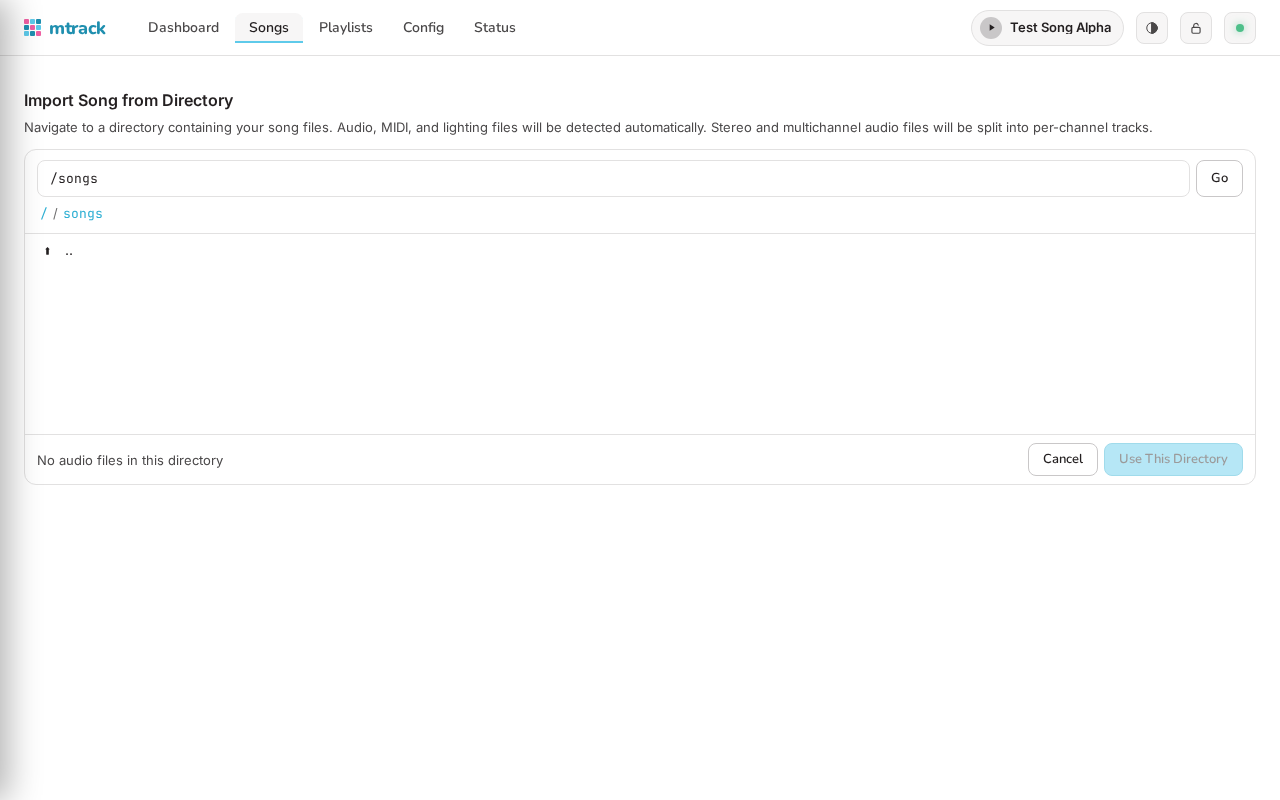
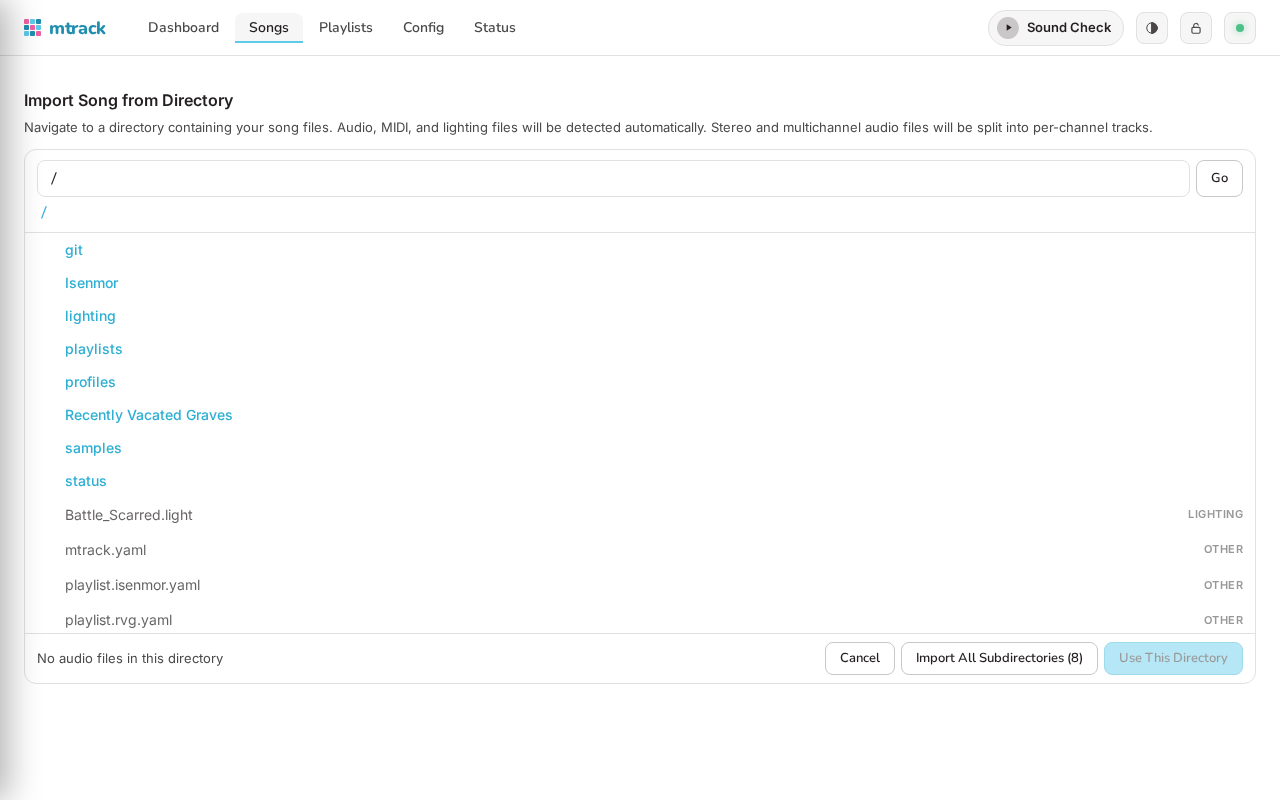
Docs: split screenshots into mock + live capture configs
The mock-server fixtures only carry one hardware profile, no real songs,
and don't expose the file browser, so the data-rich shots ended up
showing placeholder content (single profile, generic "Test Song Alpha",
empty bulk-import dialog).

Splits the generator in two:
- screenshots:mock — state-controlled shots that need WS injection
  (dashboard with a fake current song, locked/unlocked nav chip,
  timeline-playing playhead, status page)
- screenshots:live — data-rich shots against a real running mtrack
  (song browser/detail/sections, timeline editor with authored cues,
  playlist editor, hardware profiles, file-browser bulk import). Picks
  songs/playlists dynamically via /api/songs and /api/playlists so the
  spec doesn't bake in operator-specific names. Override the target
  with MTRACK_URL.

`npm run screenshots` runs both back to back. Regenerates all 11
screenshots that swapped sources.

diff --git a/src/webui/svelte/e2e/screenshots/capture-live.spec.ts b/src/webui/svelte/e2e/screenshots/capture-live.spec.ts
@@ -1,0 +1,187 @@
+// Copyright (C) 2026 Michael Wilson <mike@mdwn.dev>
+//
+// This program is free software: you can redistribute it and/or modify it under
+// the terms of the GNU General Public License as published by the Free Software
+// Foundation, version 3.
+//
+// This program is distributed in the hope that it will be useful, but WITHOUT
+// ANY WARRANTY; without even the implied warranty of MERCHANTABILITY or FITNESS
+// FOR A PARTICULAR PURPOSE. See the GNU General Public License for more details.
+//
+// You should have received a copy of the GNU General Public License along with
+// this program. If not, see <https://www.gnu.org/licenses/>.
+//
+
+// Live-data screenshot generator. Captures the data-rich shots — song
+// browser, song detail, sections, lighting timeline, playlists, hardware
+// profiles, and the bulk-import flow — against a real running mtrack.
+// Run via `npm run screenshots:live` (assumes mtrack on http://localhost:8080;
+// override with MTRACK_URL=...).
+//
+// Picks songs/playlists dynamically from /api/songs and /api/playlists so
+// the spec doesn't bake in operator-specific names.
+
+import { test, expect, type Page } from "@playwright/test";
+import path from "node:path";
+import { fileURLToPath } from "node:url";
+import { mkdirSync } from "node:fs";
+
+const __dirname = path.dirname(fileURLToPath(import.meta.url));
+
+const DOCS_IMAGES = path.resolve(
+  __dirname,
+  "..",
+  "..",
+  "..",
+  "..",
+  "..",
+  "docs",
+  "src",
+  "images",
+);
+
+mkdirSync(DOCS_IMAGES, { recursive: true });
+
+const DESKTOP = { width: 1280, height: 800 };
+
+interface SongSummary {
+  name: string;
+  has_lighting?: boolean;
+  sections?: unknown[];
+}
+
+interface PlaylistSummary {
+  name: string;
+  is_active?: boolean;
+  song_count?: number;
+}
+
+async function fetchJson<T>(page: Page, urlPath: string): Promise<T> {
+  const res = await page.request.get(urlPath);
+  if (!res.ok()) {
+    throw new Error(`GET ${urlPath} → ${res.status()}`);
+  }
+  return (await res.json()) as T;
+}
+
+async function pickSong(
+  page: Page,
+  predicate: (s: SongSummary) => boolean,
+): Promise<string> {
+  const data = await fetchJson<{ songs: SongSummary[] }>(page, "/api/songs");
+  const match = data.songs.find(predicate) ?? data.songs[0];
+  if (!match) {
+    throw new Error("no songs available on the live server");
+  }
+  return match.name;
+}
+
+async function pickPlaylist(page: Page): Promise<string> {
+  const playlists = await fetchJson<PlaylistSummary[]>(page, "/api/playlists");
+  // Prefer the active playlist with the most songs, ignoring "all_songs"
+  // (which renders differently and isn't representative).
+  const candidates = playlists.filter((p) => p.name !== "all_songs");
+  const sorted = [...candidates].sort(
+    (a, b) => (b.song_count ?? 0) - (a.song_count ?? 0),
+  );
+  const pick = sorted.find((p) => p.is_active) ?? sorted[0] ?? playlists[0];
+  if (!pick) {
+    throw new Error("no playlists available on the live server");
+  }
+  return pick.name;
+}
+
+test.describe.configure({ mode: "serial" });
+
+test.beforeEach(async ({ page }) => {
+  await page.setViewportSize(DESKTOP);
+});
+
+test("song-browser", async ({ page }) => {
+  await page.goto("/#/songs");
+  await expect(page.locator(".song-row").first()).toBeVisible();
+  await page.waitForTimeout(300);
+  await page.screenshot({ path: path.join(DOCS_IMAGES, "song-browser.png") });
+});
+
+test("song-detail", async ({ page }) => {
+  // A song with both lighting and sections gives the detail page the most
+  // to render — beat grid, section markers, lighting summary.
+  const song = await pickSong(
+    page,
+    (s) => !!s.has_lighting && (s.sections?.length ?? 0) > 0,
+  );
+  await page.goto(`/#/songs/${encodeURIComponent(song)}`);
+  await expect(page.locator(".song-title")).toBeVisible();
+  await page.waitForTimeout(400);
+  await page.screenshot({ path: path.join(DOCS_IMAGES, "song-detail.png") });
+});
+
+test("song-sections", async ({ page }) => {
+  const song = await pickSong(page, (s) => (s.sections?.length ?? 0) > 1);
+  await page.goto(`/#/songs/${encodeURIComponent(song)}/sections`);
+  await expect(page.locator(".tab.active")).toContainText("Sections");
+  await page.waitForTimeout(400);
+  await page.screenshot({ path: path.join(DOCS_IMAGES, "song-sections.png") });
+});
+
+test("timeline-editor", async ({ page }) => {
+  // Prefer a song with sections too — those are usually the ones with
+  // authored lighting cues, not just an empty .light file.
+  const song = await pickSong(
+    page,
+    (s) => !!s.has_lighting && (s.sections?.length ?? 0) > 0,
+  );
+  await page.goto(`/#/songs/${encodeURIComponent(song)}/lighting`);
+  await expect(page.locator(".tab.active")).toContainText("Lighting");
+  // Waveform + lighting-timeline canvases need a couple of frames to settle.
+  await page.waitForTimeout(700);
+  await page.screenshot({
+    path: path.join(DOCS_IMAGES, "timeline-editor.png"),
+  });
+});
+
+test("playlist-editor", async ({ page }) => {
+  const playlist = await pickPlaylist(page);
+  await page.goto(`/#/playlists/${encodeURIComponent(playlist)}`);
+  await expect(page.locator(".song-columns")).toBeVisible();
+  await page.waitForTimeout(300);
+  await page.screenshot({
+    path: path.join(DOCS_IMAGES, "playlist-editor.png"),
+  });
+});
+
+test("config-editor", async ({ page }) => {
+  await page.goto("/#/config");
+  await expect(
+    page.getByRole("heading", { name: "Hardware Profiles" }),
+  ).toBeVisible();
+  await expect(page.locator(".profile-file-row").first()).toBeVisible();
+  await page.waitForTimeout(300);
+  await page.screenshot({ path: path.join(DOCS_IMAGES, "config-editor.png") });
+});
+
+test("config-editor-profile", async ({ page }) => {
+  await page.goto("/#/config");
+  await page.locator(".profile-file-row").first().click();
+  await expect(page.getByRole("button", { name: "Back" })).toBeVisible();
+  await page.waitForTimeout(400);
+  await page.screenshot({
+    path: path.join(DOCS_IMAGES, "config-editor-profile.png"),
+  });
+});
+
+test("bulk-import-result", async ({ page }) => {
+  // The file browser only exists on a real server. Open the dialog so
+  // the doc shows the actual import entry point with live folder content.
+  await page.goto("/#/songs");
+  await page.getByRole("button", { name: /import from filesystem/i }).click();
+  // Wait for the file browser to populate at least one entry.
+  await expect(page.locator(".entry-list .entry").first()).toBeVisible({
+    timeout: 5000,
+  });
+  await page.waitForTimeout(400);
+  await page.screenshot({
+    path: path.join(DOCS_IMAGES, "bulk-import-result.png"),
+  });
+});

diff --git a/src/webui/svelte/e2e/screenshots/capture.spec.ts b/src/webui/svelte/e2e/screenshots/capture.spec.ts
@@ -12,16 +12,15 @@
 // this program. If not, see <https://www.gnu.org/licenses/>.
 //
 
-// Documentation screenshot generator.
+// Documentation screenshot generator (mock-server backed).
 //
-// Re-runs against the mock server to capture every PNG referenced from
-// docs/src/**.md. Run via `npm run screenshots`. Safe to re-run; output
-// is deterministic for a given build.
+// Captures shots that need a controlled WebSocket state — the lock chip,
+// a fake "now playing" song name, a fixed elapsed time. Mock-server
+// fixtures are deterministic, so these shots stay byte-stable across
+// machines. Run via `npm run screenshots:mock`.
 //
-// To add a new screenshot: drop another `test()` below that calls
-// `page.screenshot({ path: ... })` after navigating into the desired
-// state. Use `pushWs` to stuff specific WebSocket state into the store
-// (for example, marking the player as "playing" or "locked").
+// Data-rich shots (song browser, song detail, hardware profiles, etc.)
+// live in capture-live.spec.ts and target a real running mtrack instance.
 
 import { test, expect, type Page } from "@playwright/test";
 import path from "node:path";
@@ -167,36 +166,6 @@ test("nav-locked", async ({ page }) => {
   await topnavOnly(page, "nav-locked.png");
 });
 
-test("song-browser", async ({ page }) => {
-  await page.goto("/#/songs");
-  await expect(page.locator(".song-row").first()).toBeVisible();
-  await page.waitForTimeout(150);
-  await page.screenshot({ path: path.join(DOCS_IMAGES, "song-browser.png") });
-});
-
-test("song-detail", async ({ page }) => {
-  await page.goto("/#/songs/Test%20Song%20Alpha");
-  await expect(page.locator(".song-title")).toBeVisible();
-  await page.waitForTimeout(200);
-  await page.screenshot({ path: path.join(DOCS_IMAGES, "song-detail.png") });
-});
-
-test("song-sections", async ({ page }) => {
-  await page.goto("/#/songs/Test%20Song%20Alpha/sections");
-  await expect(page.locator(".tab.active")).toContainText("Sections");
-  await page.waitForTimeout(250);
-  await page.screenshot({ path: path.join(DOCS_IMAGES, "song-sections.png") });
-});
-
-test("timeline-editor", async ({ page }) => {
-  await page.goto("/#/songs/Test%20Song%20Alpha/lighting");
-  await expect(page.locator(".tab.active")).toContainText("Lighting");
-  await page.waitForTimeout(400);
-  await page.screenshot({
-    path: path.join(DOCS_IMAGES, "timeline-editor.png"),
-  });
-});
-
 test("timeline-playing", async ({ page }) => {
   const wsId = freshWsId("timeline-playing");
   await page.goto(`/?wsId=${wsId}#/songs/Test%20Song%20Alpha/lighting`);
@@ -213,34 +182,6 @@ test("timeline-playing", async ({ page }) => {
   });
 });
 
-test("playlist-editor", async ({ page }) => {
-  await page.goto("/#/playlists/setlist");
-  await expect(page.locator(".song-columns")).toBeVisible();
-  await page.waitForTimeout(200);
-  await page.screenshot({
-    path: path.join(DOCS_IMAGES, "playlist-editor.png"),
-  });
-});
-
-test("config-editor", async ({ page }) => {
-  await page.goto("/#/config");
-  await expect(
-    page.getByRole("heading", { name: "Hardware Profiles" }),
-  ).toBeVisible();
-  await page.waitForTimeout(200);
-  await page.screenshot({ path: path.join(DOCS_IMAGES, "config-editor.png") });
-});
-
-test("config-editor-profile", async ({ page }) => {
-  await page.goto("/#/config");
-  await page.locator(".profile-row", { hasText: "test-host" }).click();
-  await expect(page.getByRole("button", { name: "Back" })).toBeVisible();
-  await page.waitForTimeout(250);
-  await page.screenshot({
-    path: path.join(DOCS_IMAGES, "config-editor-profile.png"),
-  });
-});
-
 test("status-page", async ({ page }) => {
   await page.goto("/#/status");
   await expect(page.locator(".status-page")).toBeVisible();
@@ -248,19 +189,4 @@ test("status-page", async ({ page }) => {
   await expect(page.locator(".subsystem-row").first()).toBeVisible();
   await page.waitForTimeout(200);
   await page.screenshot({ path: path.join(DOCS_IMAGES, "status-page.png") });
-});
-
-test("bulk-import-result", async ({ page }) => {
-  // The bulk-import flow needs the file browser endpoints, which the
-  // mock server doesn't expose. Capture the import landing page instead
-  // (showing the Import-from-Filesystem button + dialog scaffold) so
-  // the doc has a current visual hook even without a real import. If
-  // the mock ever gains those endpoints, expand this into the full
-  // run-the-import flow.
-  await page.goto("/#/songs");
-  await page.getByRole("button", { name: /import from filesystem/i }).click();
-  await page.waitForTimeout(250);
-  await page.screenshot({
-    path: path.join(DOCS_IMAGES, "bulk-import-result.png"),
-  });
 });

diff --git a/src/webui/svelte/playwright.screenshots.live.config.ts b/src/webui/svelte/playwright.screenshots.live.config.ts
@@ -12,50 +12,37 @@
 // this program. If not, see <https://www.gnu.org/licenses/>.
 //
 
-// Separate Playwright config for the documentation screenshot generator.
-// Reuses the same mock-server + dev-server stack as the e2e suite but
-// targets the `e2e/screenshots/` directory and runs serially so the
-// captured PNGs are deterministic.
+// Playwright config for the live-data screenshot generator. Targets a real
+// running mtrack instance (default http://localhost:8080) so the captured
+// PNGs reflect realistic content — multiple songs, real playlists, and the
+// hardware profiles installed on the operator's machine. State-controlled
+// shots (lock chip, fake "now playing", etc.) live in the mock-server config
+// instead.
+//
+// Override the target with MTRACK_URL=http://host:port npm run screenshots:live.
 
 import { defineConfig, devices } from "@playwright/test";
 
+const MTRACK_URL = process.env.MTRACK_URL ?? "http://localhost:8080";
+
 export default defineConfig({
   testDir: "./e2e/screenshots",
-  testMatch: /capture\.spec\.ts/,
+  testMatch: /capture-live\.spec\.ts/,
   fullyParallel: false,
   workers: 1,
   reporter: "list",
   timeout: 60000,
   use: {
-    baseURL: "http://127.0.0.1:5180",
+    baseURL: MTRACK_URL,
     ...devices["Desktop Chrome"],
   },
   projects: [
     {
-      name: "screenshots",
+      name: "screenshots-live",
       use: {
         ...devices["Desktop Chrome"],
-        baseURL: "http://127.0.0.1:5180",
+        baseURL: MTRACK_URL,
       },
-    },
-  ],
-  webServer: [
-    {
-      command: "npx tsx e2e/mock-server/index.ts",
-      port: 3111,
-      reuseExistingServer: true,
-      timeout: 120000,
-      stdout: "pipe",
-      stderr: "pipe",
-    },
-    {
-      command:
-        "VITE_PROXY_TARGET=http://127.0.0.1:3111 npx vite --host 127.0.0.1 --port 5180 --strictPort",
-      port: 5180,
-      reuseExistingServer: true,
-      timeout: 120000,
-      stdout: "pipe",
-      stderr: "pipe",
     },
   ],
 });
